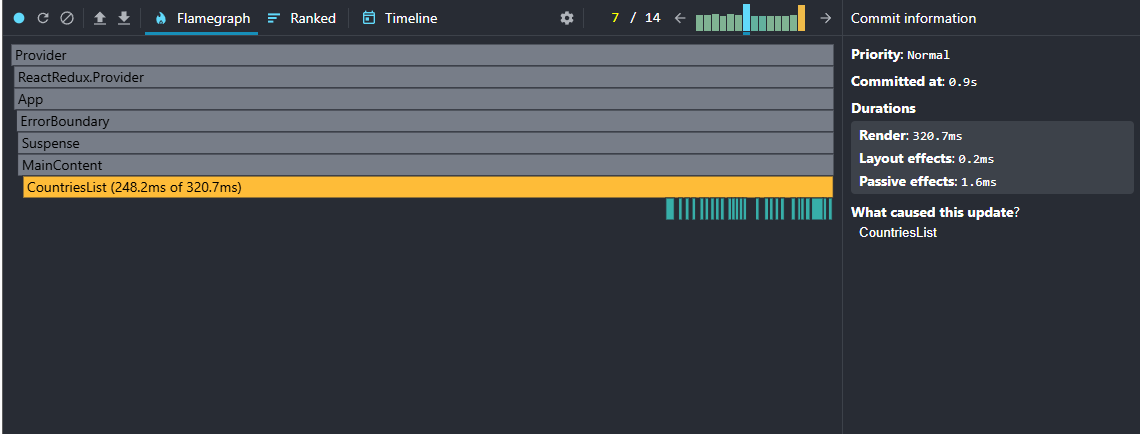
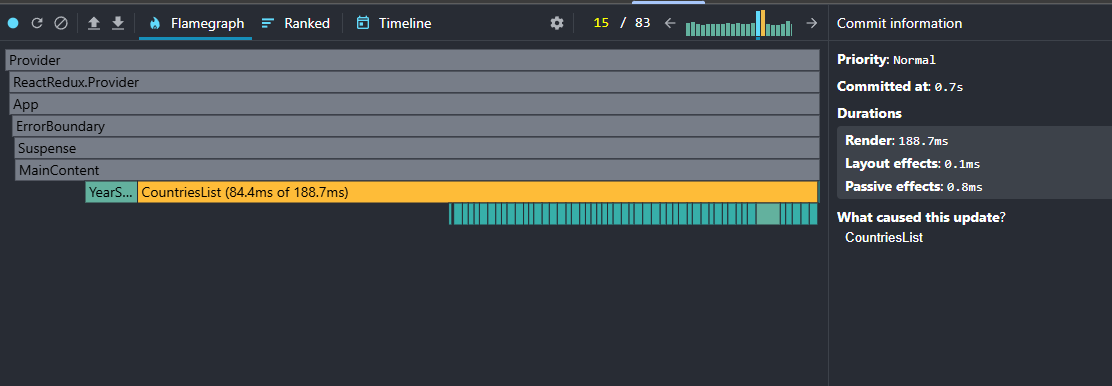
feat: update report

Changed region(s): [[0.0, 0.0, 0.9173, 0.6528]]

diff --git a/README.md b/README.md
@@ -63,11 +63,11 @@ Profiler not capture interactions so only Commit and Render analyzed
 
 #### Commit Duration:
 
-0.8s
+0.1s
 
 #### Render Duration:
 
-271.2ms
+91.9ms
 
 #### Interactions:
 
@@ -87,11 +87,11 @@ Profiler not capture interactions so only Commit and Render analyzed
 
 #### Commit Duration:
 
-0.2s
+1.9s
 
 #### Render Duration:
 
-110.4ms
+191.4ms
 
 #### Interactions:
 
@@ -99,11 +99,11 @@ Profiler not capture interactions so only Commit and Render analyzed
 
 #### Flame Graph:
 
-![alt text](./screen-to-report/image-4.png)
+![alt text](./screen-to-report/image-5.png)
 
 #### Ranked Chart:
 
-![alt text](./screen-to-report/image-5.png)
+![alt text](./screen-to-report/image-4.png)
 
 ---
 
@@ -111,11 +111,11 @@ Profiler not capture interactions so only Commit and Render analyzed
 
 #### Commit Duration:
 
-0.5s
+0.3s
 
 #### Render Duration:
 
-327.2ms
+223.3ms
 
 #### Interactions:
 
@@ -135,11 +135,11 @@ Profiler not capture interactions so only Commit and Render analyzed
 
 #### Commit Duration:
 
-0.9s
+0.7s
 
 #### Render Duration:
 
-320.7ms
+188.7ms
 
 #### Interactions:
 
@@ -159,11 +159,11 @@ Profiler not capture interactions so only Commit and Render analyzed
 
 #### Commit Duration:
 
-0.8s
+0.5s
 
 #### Render Duration:
 
-420.3ms
+90.3ms
 
 #### Interactions:
 
@@ -183,11 +183,11 @@ Profiler not capture interactions so only Commit and Render analyzed
 
 #### Commit Duration:
 
-2.2s
+0.5s
 
 #### Render Duration:
 
-65.5ms
+104.6ms
 
 #### Interactions:
 
@@ -207,11 +207,11 @@ Profiler not capture interactions so only Commit and Render analyzed
 
 #### Commit Duration:
 
-1s
+2.6s
 
 #### Render Duration:
 
-15.3ms
+84.5ms
 
 #### Interactions:
 
@@ -231,11 +231,11 @@ Profiler not capture interactions so only Commit and Render analyzed
 
 #### Commit Duration:
 
-1.7s
+2.1s
 
 #### Render Duration:
 
-20.3ms
+131.7ms
 
 #### Interactions:
 
@@ -255,11 +255,11 @@ Profiler not capture interactions so only Commit and Render analyzed
 
 #### Commit Duration:
 
-1s
+1.1s
 
 #### Render Duration:
 
-20.3ms
+154.4ms
 
 #### Interactions:
 
@@ -279,11 +279,11 @@ Profiler not capture interactions so only Commit and Render analyzed
 
 #### Commit Duration:
 
-0.9s
+1.2s
 
 #### Render Duration:
 
-20.3ms
+171.2ms
 
 #### Interactions:
 
@@ -307,7 +307,7 @@ Profiler not capture interactions so only Commit and Render analyzed
 
 #### Render Duration:
 
-71.6ms
+20.3ms
 
 #### Interactions:
 
@@ -327,11 +327,11 @@ Profiler not capture interactions so only Commit and Render analyzed
 
 #### Commit Duration:
 
-2.2s
+1.4s
 
 #### Render Duration:
 
-102.3ms
+51.7ms
 
 #### Interactions:
 
@@ -351,11 +351,11 @@ Profiler not capture interactions so only Commit and Render analyzed
 
 | Interaction             | Commit Duration (before) | Commit Duration (after) | Render Duration (before) | Render Duration (after) |
 | ----------------------- | ------------------------ | ----------------------- | ------------------------ | ----------------------- |
-| Change year selection   | 0.8s                     | 1.0s                    | 271.2ms                  | 15.3ms                  |
-| Filtering by region     | 0.2s                     | 1.7s                    | 110.4ms                  | 20.3ms                  |
-| Sorting by population   | 0.5s                     | 1.0s                    | 327.2ms                  | 20.3ms                  |
-| Sorting by country name | 0.9s                     | 0.9s                    | 320.7ms                  | 20.3ms                  |
-| Searching countries     | 0.8s                     | 1.8s                    | 420.3ms                  | 187.9ms                 |
-| Add new column          | 2.2s                     | 2.2s                    | 65.5ms                   | 102.3ms                 |
+| Change year selection   | 0.1s                     | 2.6s                    | 91.9ms                   | 84.5ms                  |
+| Filtering by region     | 1.9s                     | 2.1s                    | 191.4ms                  | 131.7ms                 |
+| Sorting by population   | 0.3s                     | 1.1s                    | 223.3ms                  | 154.4ms                 |
+| Sorting by country name | 0.7s                     | 1.2s                    | 188.7ms                  | 171.2ms                 |
+| Searching countries     | 0.5s                     | 1.8s                    | 90.3ms                   | 20.3ms                  |
+| Add new column          | 0.5s                     | 1.4s                    | 104.6ms                  | 51.7ms                  |
 
-On screen photo you cuold se that the number of rerender was reduced
+On screen photo you could se that the number of rerender was reduced
